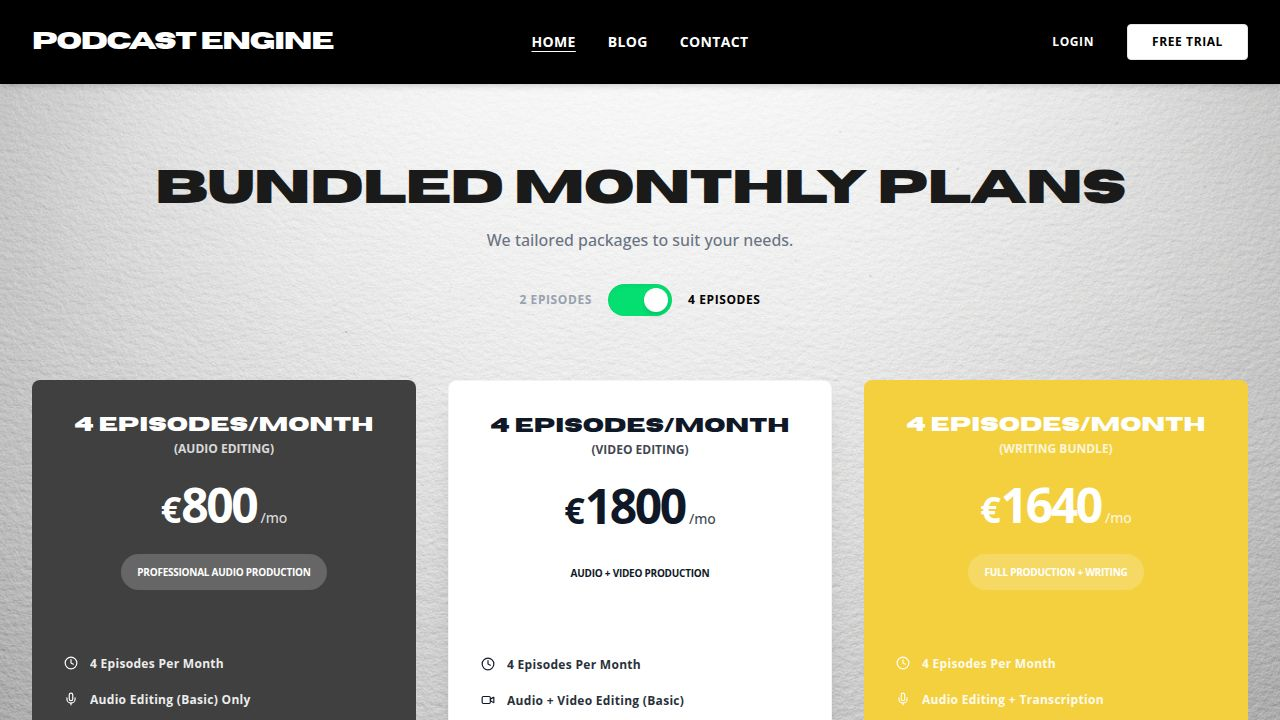
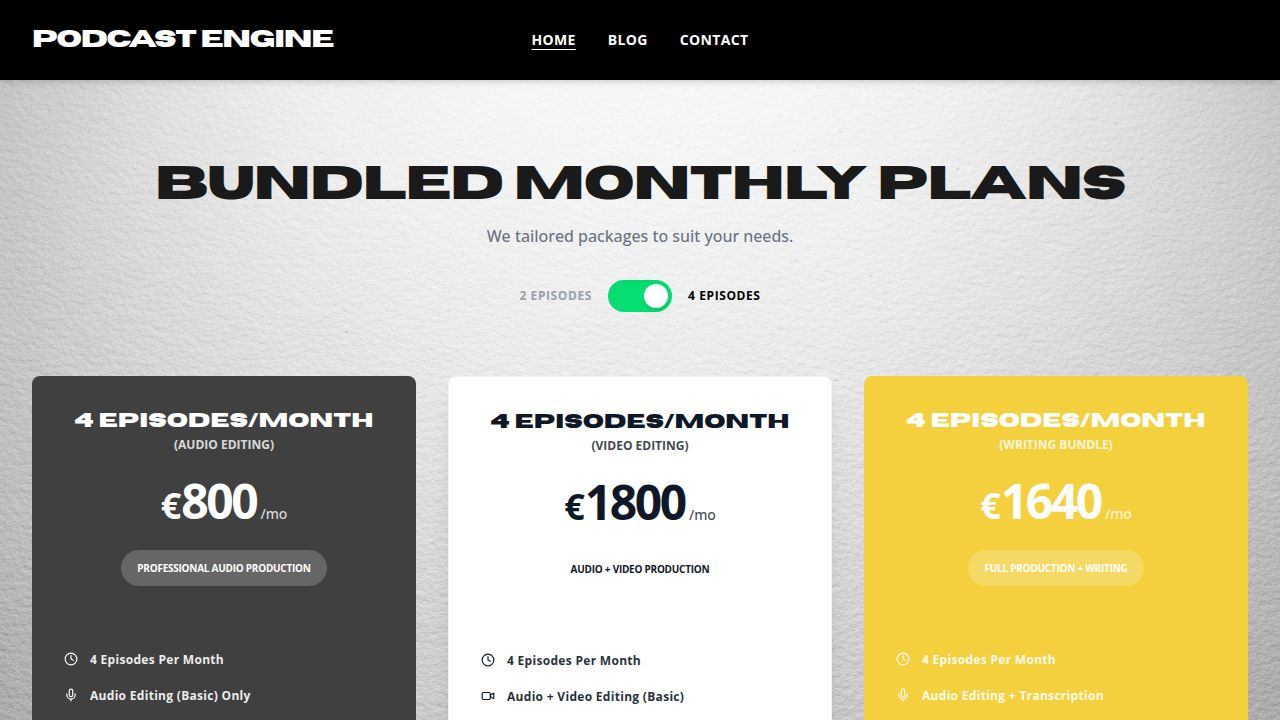
Remove login and free trial options from the application
Removes the "Login" and "Free Trial" buttons and associated functionality from the Navbar and Footer components, simplifying user access by eliminating authentication entry points.

Replit-Commit-Author: Agent
Replit-Commit-Session-Id: 2815ac2c-c1e8-43b0-aff9-5bef9b4538b0
Replit-Commit-Checkpoint-Type: full_checkpoint
Replit-Commit-Event-Id: 88907c70-9de2-4904-82d6-a8d06d8286c0
Replit-Commit-Screenshot-Url: https://storage.googleapis.com/screenshot-production-us-central1/8aebecf9-f997-473f-bf1d-9c0257e828e7/2815ac2c-c1e8-43b0-aff9-5bef9b4538b0/oVx8gMb
Replit-Helium-Checkpoint-Created: true

diff --git a/client/src/components/layout/Navbar.tsx b/client/src/components/layout/Navbar.tsx
@@ -1,7 +1,7 @@
 import { Link, useLocation } from "wouter";
 import { cn } from "@/lib/utils";
 import { Button } from "@/components/ui/button";
-import { Menu, LogOut, User } from "lucide-react";
+import { Menu } from "lucide-react";
 import {
   Sheet,
   SheetContent,
@@ -9,41 +9,17 @@ import {
   SheetHeader,
   SheetTitle,
 } from "@/components/ui/sheet";
-import {
-  DropdownMenu,
-  DropdownMenuContent,
-  DropdownMenuItem,
-  DropdownMenuTrigger,
-} from "@/components/ui/dropdown-menu";
 import { useState } from "react";
-import { useAuth } from "@/hooks/useAuth";
 
 export default function Navbar() {
   const [location] = useLocation();
   const [isOpen, setIsOpen] = useState(false);
-  const { user, isAuthenticated, isLoading } = useAuth();
 
   const links = [
     { name: "Home", href: "/" },
     { name: "Blog", href: "/blog" },
     { name: "Contact", href: "/contact" },
   ];
-
-  const handleLogin = () => {
-    window.location.href = "/api/login";
-  };
-
-  const handleLogout = () => {
-    window.location.href = "/api/logout";
-  };
-
-  const handleFreeTrial = () => {
-    if (!isAuthenticated) {
-      window.location.href = "/api/login";
-    } else {
-      window.location.href = "/dashboard";
-    }
-  };
 
   return (
     <nav className="bg-black text-white py-6 px-8 flex items-center justify-between sticky top-0 z-50 shadow-md relative">
@@ -67,47 +43,7 @@ export default function Navbar() {
       </div>
 
       <div className="hidden md:flex items-center gap-4 z-20 relative">
-        {isLoading ? (
-          <div className="h-8 w-20 bg-gray-800 animate-pulse rounded" />
-        ) : isAuthenticated ? (
-          <DropdownMenu>
-            <DropdownMenuTrigger asChild>
-              <Button variant="ghost" className="text-white hover:text-black hover:bg-white font-bold uppercase text-xs tracking-wider gap-2" data-testid="button-user-menu">
-                <User size={16} />
-                {user?.firstName || user?.email?.split("@")[0] || "Account"}
-              </Button>
-            </DropdownMenuTrigger>
-            <DropdownMenuContent align="end" className="bg-white">
-              <DropdownMenuItem asChild>
-                <Link href="/dashboard" className="cursor-pointer" data-testid="link-dashboard">
-                  Dashboard
-                </Link>
-              </DropdownMenuItem>
-              <DropdownMenuItem onClick={handleLogout} className="cursor-pointer" data-testid="button-logout">
-                <LogOut size={16} className="mr-2" />
-                Logout
-              </DropdownMenuItem>
-            </DropdownMenuContent>
-          </DropdownMenu>
-        ) : (
-          <>
-            <Button 
-              variant="ghost" 
-              className="text-white hover:text-black hover:bg-white font-bold uppercase text-xs tracking-wider"
-              onClick={handleLogin}
-              data-testid="button-login"
-            >
-              Login
-            </Button>
-            <Button 
-              className="bg-white text-black hover:bg-gray-200 font-bold uppercase text-xs tracking-wider rounded-sm px-6"
-              onClick={handleFreeTrial}
-              data-testid="button-free-trial"
-            >
-              Free Trial
-            </Button>
-          </>
-        )}
+        {/* Auth buttons removed */}
       </div>
 
       <div className="lg:hidden flex items-center">
@@ -136,48 +72,6 @@ export default function Navbar() {
                     {link.name}
                   </Link>
                 ))}
-              </div>
-              
-              <div className="h-px bg-gray-800 my-2" />
-              
-              <div className="flex flex-col gap-4">
-                {isAuthenticated ? (
-                  <>
-                    <Link 
-                      href="/dashboard"
-                      onClick={() => setIsOpen(false)}
-                      className="w-full bg-white text-black hover:bg-gray-200 font-bold uppercase tracking-wider rounded-sm text-center py-2"
-                    >
-                      Dashboard
-                    </Link>
-                    <Button 
-                      variant="ghost" 
-                      className="w-full text-white hover:bg-gray-800 font-bold uppercase tracking-wider justify-start px-0"
-                      onClick={() => { setIsOpen(false); handleLogout(); }}
-                      data-testid="button-mobile-logout"
-                    >
-                      Logout
-                    </Button>
-                  </>
-                ) : (
-                  <>
-                    <Button 
-                      className="w-full bg-white text-black hover:bg-gray-200 font-bold uppercase tracking-wider rounded-sm"
-                      onClick={() => { setIsOpen(false); handleFreeTrial(); }}
-                      data-testid="button-mobile-free-trial"
-                    >
-                      Free Trial
-                    </Button>
-                    <Button 
-                      variant="ghost" 
-                      className="w-full text-white hover:bg-gray-800 font-bold uppercase tracking-wider justify-start px-0"
-                      onClick={() => { setIsOpen(false); handleLogin(); }}
-                      data-testid="button-mobile-login"
-                    >
-                      Login
-                    </Button>
-                  </>
-                )}
               </div>
             </div>
           </SheetContent>

diff --git a/client/src/components/layout/Footer.tsx b/client/src/components/layout/Footer.tsx
@@ -2,10 +2,6 @@ import { Link } from "wouter";
 import { Facebook, Twitter, Instagram, Linkedin } from "lucide-react";
 
 export default function Footer() {
-  const handleStartTrial = () => {
-    window.location.href = "/api/login";
-  };
-
   return (
     <footer className="bg-black text-white py-16 px-8 border-t border-gray-900">
       <div className="max-w-7xl mx-auto">
@@ -15,13 +11,6 @@ export default function Footer() {
           </Link>
 
           <div className="flex gap-8">
-            <button
-              onClick={handleStartTrial}
-              className="bg-white text-black px-4 py-2 text-xs font-bold uppercase tracking-widest hover:bg-gray-200 transition-colors rounded-sm"
-              data-testid="button-footer-trial"
-            >
-              Start A Trial
-            </button>
             <FooterLink href="/">Home</FooterLink>
             <FooterLink href="/blog">Blog</FooterLink>
             <FooterLink href="/contact">Contact</FooterLink>
